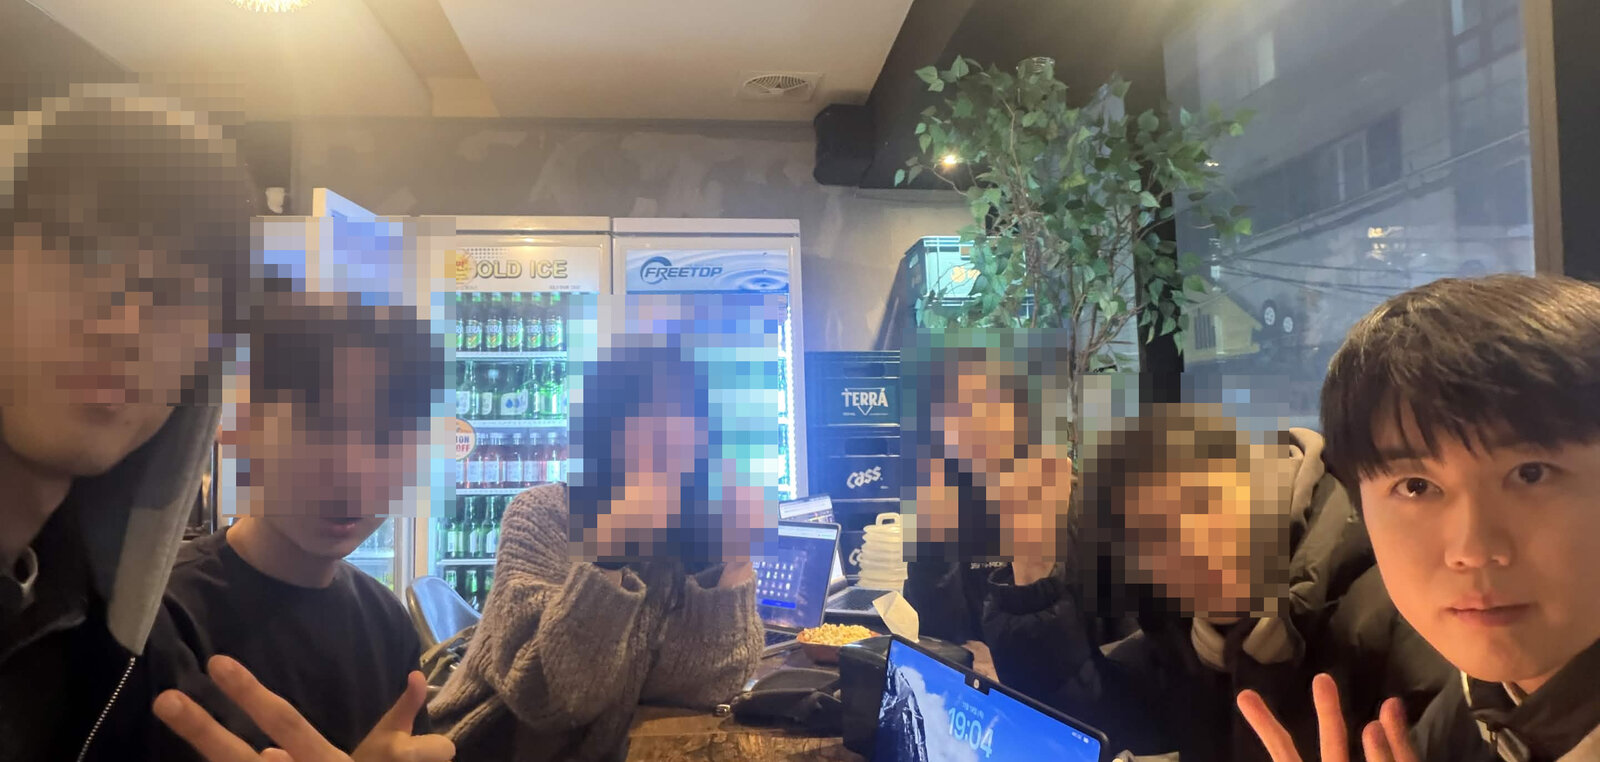
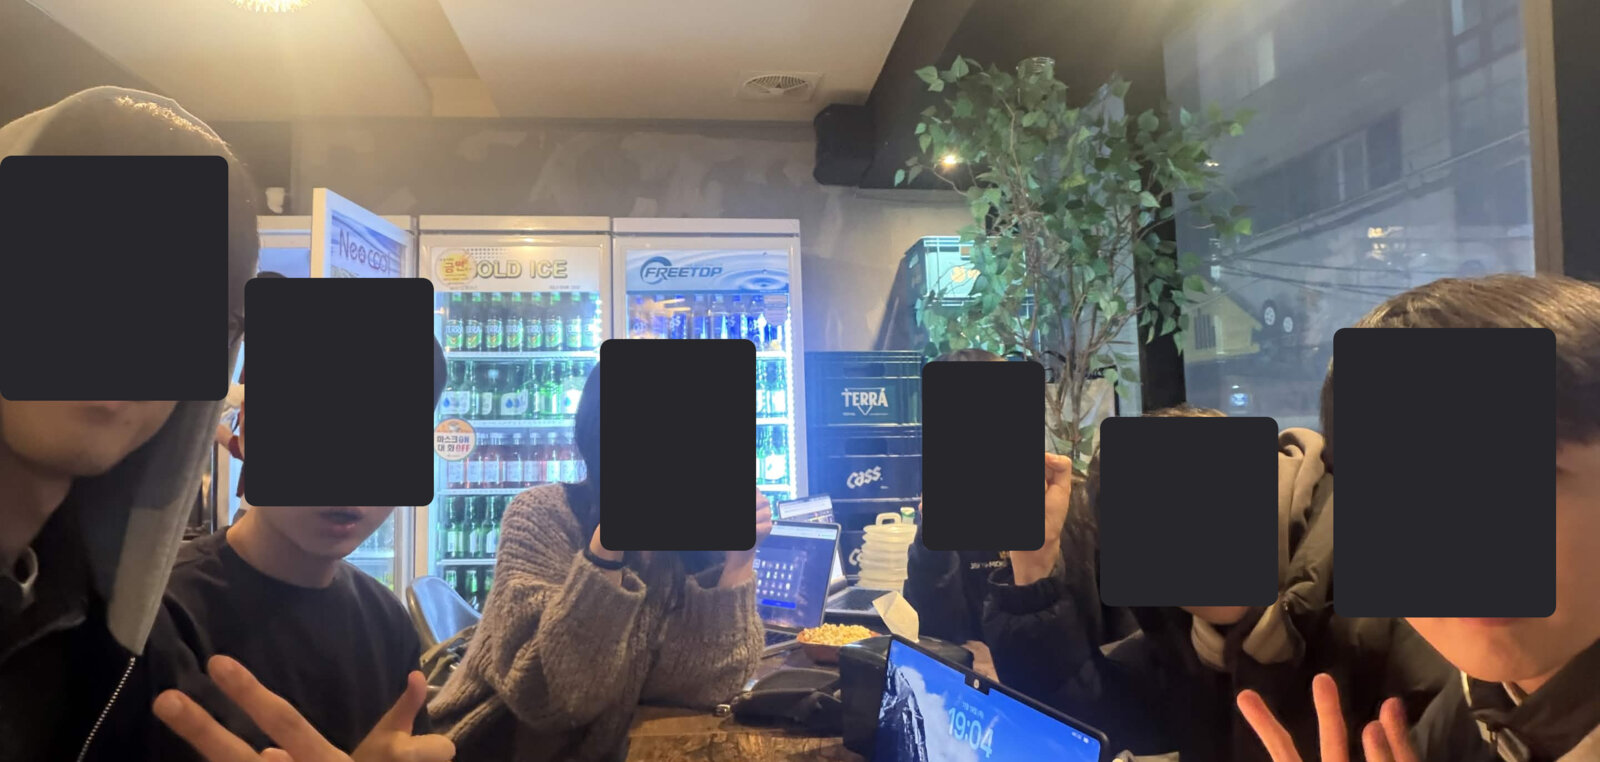
fix: 회고 대표 사진의 얼굴 가림을 모자이크에서 네모 박스로 바꾸고 여섯 명 전부 가린다

Changed region(s): [[0.5625, 0.4226, 1.0, 0.815], [0.0, 0.0906, 0.2812, 0.6942], [0.3438, 0.3622, 0.5, 0.7546]]

diff --git a/posts/2026-kakao-tech-campus-retrospective/index.html b/posts/2026-kakao-tech-campus-retrospective/index.html
@@ -124,7 +124,7 @@
 <p>"폐업 처리 자체는 몇 분이면 되는데, 폐업했다는 걸 알아채고 확인하는 데 품이 많이 들어요." 8월의 이 한마디가 13주짜리 과제의 전부였다.</p>
 </blockquote>
 <p>카카오테크캠퍼스 4기에서 경북대 6팀 팀장을 맡았다. 여섯 명이 만든 것은 <strong>선한레이더</strong>다. 결식아동을 돕는 가게 명단에서 폐업·이전·정보 변경을 AI 에이전트가 조사하고, 바뀐 것 같은 가게에는 직접 전화를 걸어 확인한 뒤, 담당자에게는 바뀐 것만 근거와 함께 올리는 서비스다. 9월 8일 첫 PR부터 11월 11일 마지막 머지까지 PR 191건, 그중 180건이 머지됐다.</p>
-<figure><img width="1600" height="762" alt="2026년 11월 19일 수료식 날 저녁, 팀원 여섯이 한 자리에 모였다. 팀원 얼굴은 가렸다" src="/assets/2026-kakao-tech-campus-retrospective/hero.jpg" /><figcaption aria-hidden="true">2026년 11월 19일 수료식 날 저녁, 팀원 여섯이 한 자리에 모였다. 팀원 얼굴은 가렸다</figcaption></figure>
+<figure><img width="1600" height="762" alt="2026년 11월 19일 수료식 날 저녁, 팀원 여섯이 한 자리에 모였다. 얼굴은 모두 가렸다" src="/assets/2026-kakao-tech-campus-retrospective/hero.jpg" /><figcaption aria-hidden="true">2026년 11월 19일 수료식 날 저녁, 팀원 여섯이 한 자리에 모였다. 얼굴은 모두 가렸다</figcaption></figure>
 <h2>문제는 전화기 옆에 있었다</h2>
 <p>주제를 정하기 전에 기관부터 찾았다. 8월에 결식아동 지원 가게 명단을 관리하는 기관 열세 곳에 "명단이 낡는 문제를 어떻게 관리하시나요"라고 메일을 보냈고, 다섯 곳에서 답이 왔다. 그중 선한영향력가게 사무국과는 전화로 인터뷰했다. 담당자는 가게를 점검할 때마다 반복 업무에 시간을 쓰고, 폐업은 전화나 문자로 전해 듣는 데 의존하고, 무엇을 기준으로 조사해야 할지 모르겠다고 했다.</p>
 <p>숫자로도 확인했다. 서울시가 공개한 급식카드 가맹점 9만 곳을 행정안전부 인허가 데이터와 대조하니 찾을 수 있었던 6만 9천 곳 중 6천 곳이 인허가 기준으로 폐업 상태였고, 경기도 선한영향력가게 명단에서 사업자등록번호가 있는 465곳을 국세청에 조회하니 139곳이 폐업한 사업자였다. 가게가 문을 닫아도 아무도 명단을 고치지 않는다는 말이 그대로 수치로 나왔다.</p>

diff --git a/_src/posts/2026-kakao-tech-campus-retrospective.md b/_src/posts/2026-kakao-tech-campus-retrospective.md
@@ -11,7 +11,7 @@ date_basis: "기존 발행일"
 
 카카오테크캠퍼스 4기에서 경북대 6팀 팀장을 맡았다. 여섯 명이 만든 것은 **선한레이더**다. 결식아동을 돕는 가게 명단에서 폐업·이전·정보 변경을 AI 에이전트가 조사하고, 바뀐 것 같은 가게에는 직접 전화를 걸어 확인한 뒤, 담당자에게는 바뀐 것만 근거와 함께 올리는 서비스다. 9월 8일 첫 PR부터 11월 11일 마지막 머지까지 PR 191건, 그중 180건이 머지됐다.
 
-![2026년 11월 19일 수료식 날 저녁, 팀원 여섯이 한 자리에 모였다. 팀원 얼굴은 가렸다](/assets/2026-kakao-tech-campus-retrospective/hero.jpg)
+![2026년 11월 19일 수료식 날 저녁, 팀원 여섯이 한 자리에 모였다. 얼굴은 모두 가렸다](/assets/2026-kakao-tech-campus-retrospective/hero.jpg)
 
 ## 문제는 전화기 옆에 있었다
 
